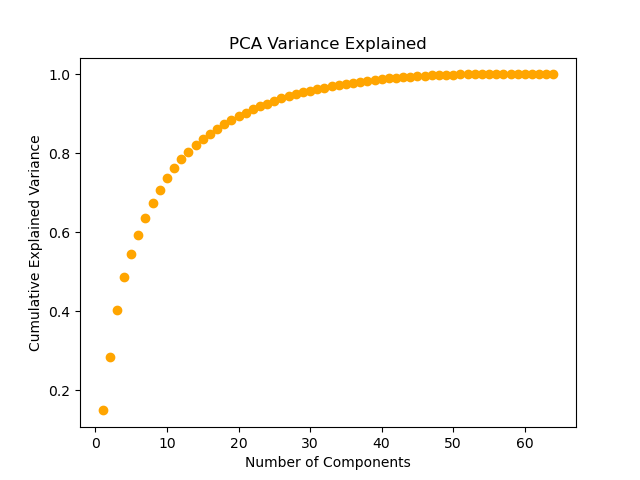
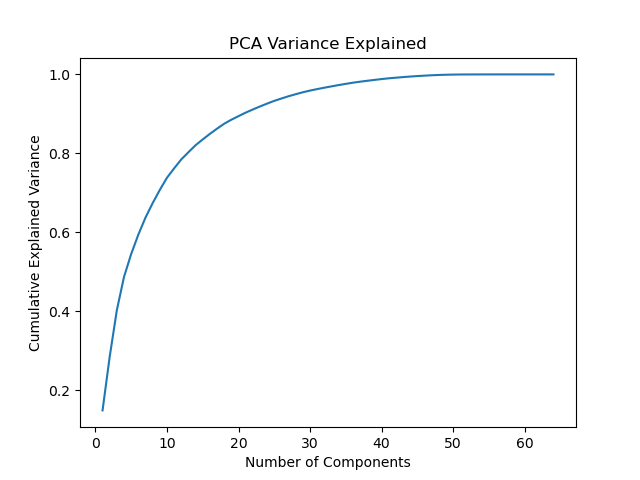
Warmup revisions

Changed region(s): [[0.1875, 0.125, 0.875, 0.625], [0.1562, 0.625, 0.1875, 0.875]]

diff --git a/assignments_03/warmup_03.py b/assignments_03/warmup_03.py
@@ -162,9 +162,14 @@ log_reg_np3 = (
 )
 
 print(f"\nLogical Regression 01:\n")
-print(f"Model one C value: {log_reg1.estimator.C} and total size: {log_reg_np1}")
-print(f"Model two C value: {log_reg2.estimator.C} and total size: {log_reg_np2}")
-print(f"Model three C value: {log_reg3.estimator.C} and total size: {log_reg_np3}")
+print(f"C = {log_reg1.estimator.C}")
+print(f"Total coefficient size = {log_reg_np1:.3f}")
+
+print(f"C = {log_reg2.estimator.C}")
+print(f"Total coefficient size = {log_reg_np2:.3f}")
+
+print(f"C = {log_reg3.estimator.C}")
+print(f"Total coefficient size = {log_reg_np3:.3f}")
 
 # As C increases, the coefficients increase too.
 # Smaller C values keep them lower and bigger C values let them grow.
@@ -180,26 +185,28 @@ print(f"\nPCA 01:\n")
 print(f"Shape of x digits: {X_digits.shape}")
 print(f"Shape of images: {images.shape}")
 
-fig, ax = plt.subplots(1, 10, figsize=(15, 2))
-#use a loop to prevent "repetitive code"!
-for i in range(10):
-    ax[i].imshow(images[i],cmap="gray_r")
-    ax[i].set_title(y_digits[i])
-    ax[i].axis("off")
+fig, axes = plt.subplots(1, 10, figsize=(12, 2))
+
+for digit in range(10):
+    index = np.where(y_digits == digit)[0][0]
+    axes[digit].imshow(images[index], cmap="gray_r")
+    axes[digit].set_title(str(digit))
+    axes[digit].axis("off")
+
 plt.savefig("outputs/sample_digits.png")
 plt.show()
 
 #PCA 02
 fig, ax1 = plt.subplots()
 
-pca = PCA(svd_solver="randomized",random_state=0)
+pca = PCA()
 pca_fit = pca.fit(X_digits)
 scores = pca.transform(X_digits)
 
 scatter = ax1.scatter(scores[:,0],scores[:,1],c=y_digits,cmap="tab10",s=10) # c = color array
 plt.colorbar(scatter,label="Digit")
 plt.title("PCA 2D Projection")
-plt.savefig("outputs/pca-2d_projection.png")
+plt.savefig("outputs/pca_2d_projection.png")
 plt.show()
 
 # Same-digit images generally form clusters, although some of the
@@ -209,12 +216,14 @@ plt.show()
 perc_exp_vals = pca_fit.explained_variance_ratio_ 
 total_explained = np.cumsum(perc_exp_vals)
 
-plt.scatter(range(1, len(total_explained) + 1),total_explained,color="orange")
-plt.title("PCA Variance Explained")
+plt.plot(
+    range(1, len(total_explained) + 1),
+    total_explained
+)
 
+plt.title("PCA Variance Explained")
 plt.xlabel("Number of Components")
 plt.ylabel("Cumulative Explained Variance")
-
 plt.savefig("outputs/pca_variance_explained.png")
 plt.show()
 
@@ -229,14 +238,31 @@ def reconstruct_digit(sample_idx,scores,pca,n_components):
     return reconstruction.reshape(8,8)
 
 
-fig, axs = plt.subplots(5,5,figsize=(10,10))
-component_counts = [2, 5, 15, 40]
+n_values = [2, 5, 15, 40]
+fig, axes = plt.subplots(5, 5, figsize=(8, 8))
 
-for row, n in enumerate(component_counts, start=1):
-    for col in range(5):
-        axs[0][col].imshow(images[col], cmap="gray")
-        reconstruction = reconstruct_digit(col, scores, pca, n)
-        axs[row][col].imshow(reconstruction, cmap="gray")
+# Original row
+for i in range(5):
+    axes[0, i].imshow(images[i], cmap="gray_r")
+    axes[0, i].axis("off")
+
+axes[0, 0].set_ylabel("Original")
+
+# Reconstruction rows
+for row, n_components in enumerate(n_values, start=1):
+    for i in range(5):
+        reconstructed = reconstruct_digit(
+            i,
+            scores,
+            pca,
+            n_components
+        )
+
+        axes[row, i].imshow(reconstructed, cmap="gray_r")
+        axes[row, i].axis("off")
+    axes[row, 0].set_ylabel(f"n={n_components}")
+
+plt.tight_layout()
 plt.savefig("outputs/pca_reconstructions.png")
 plt.show()
 
